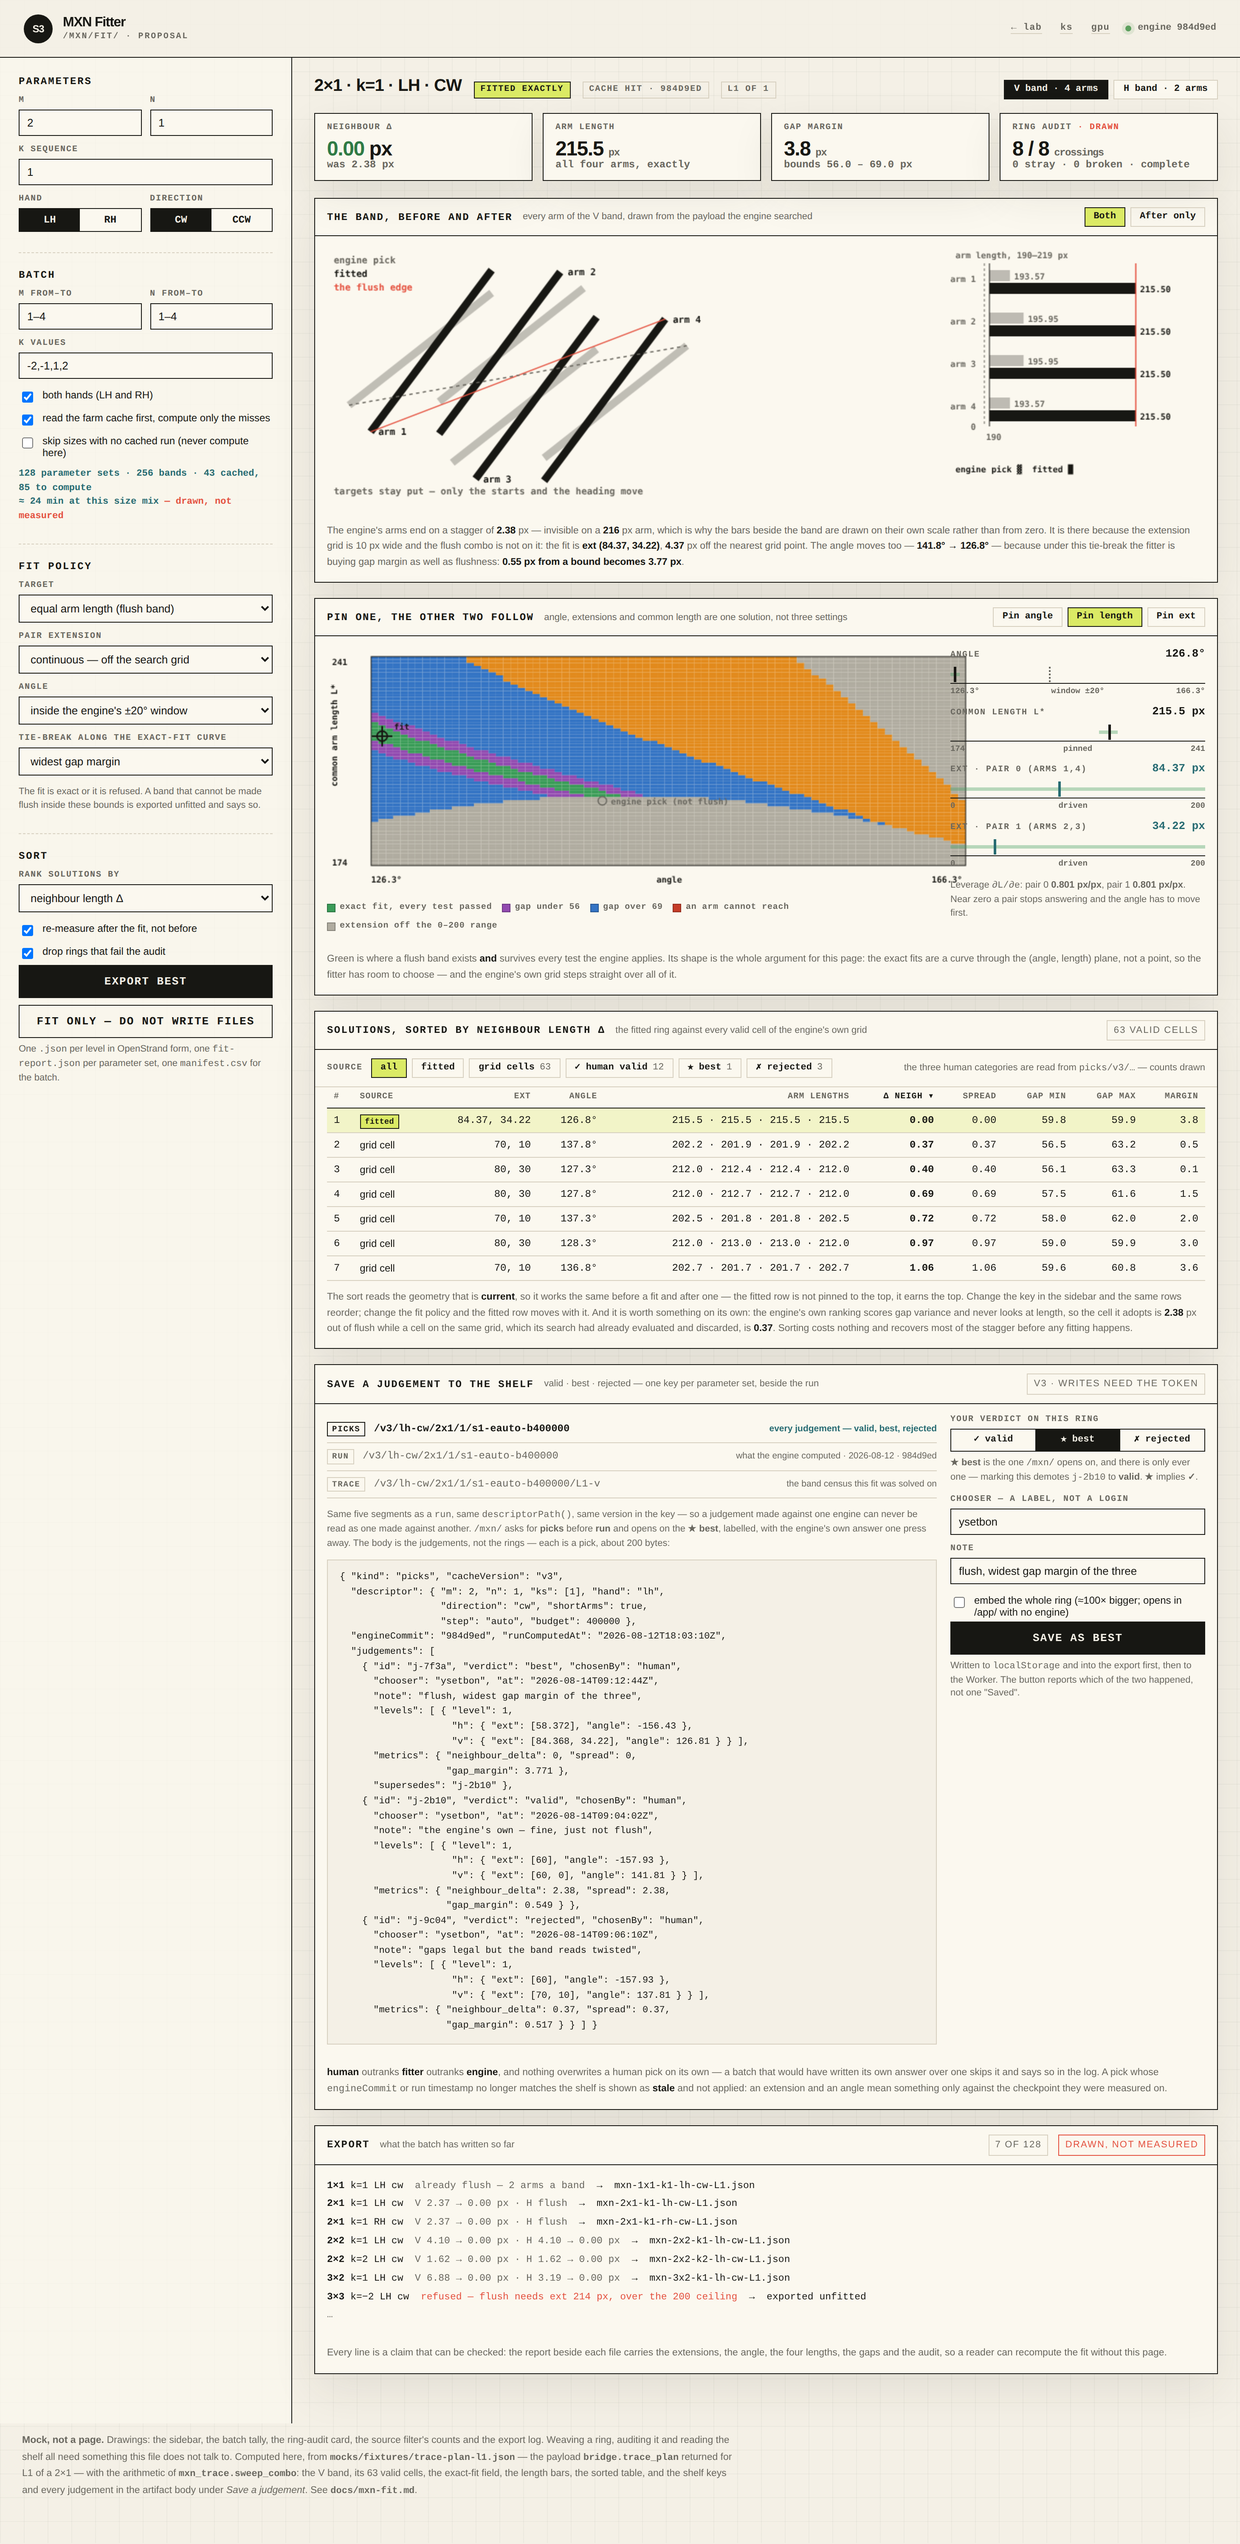
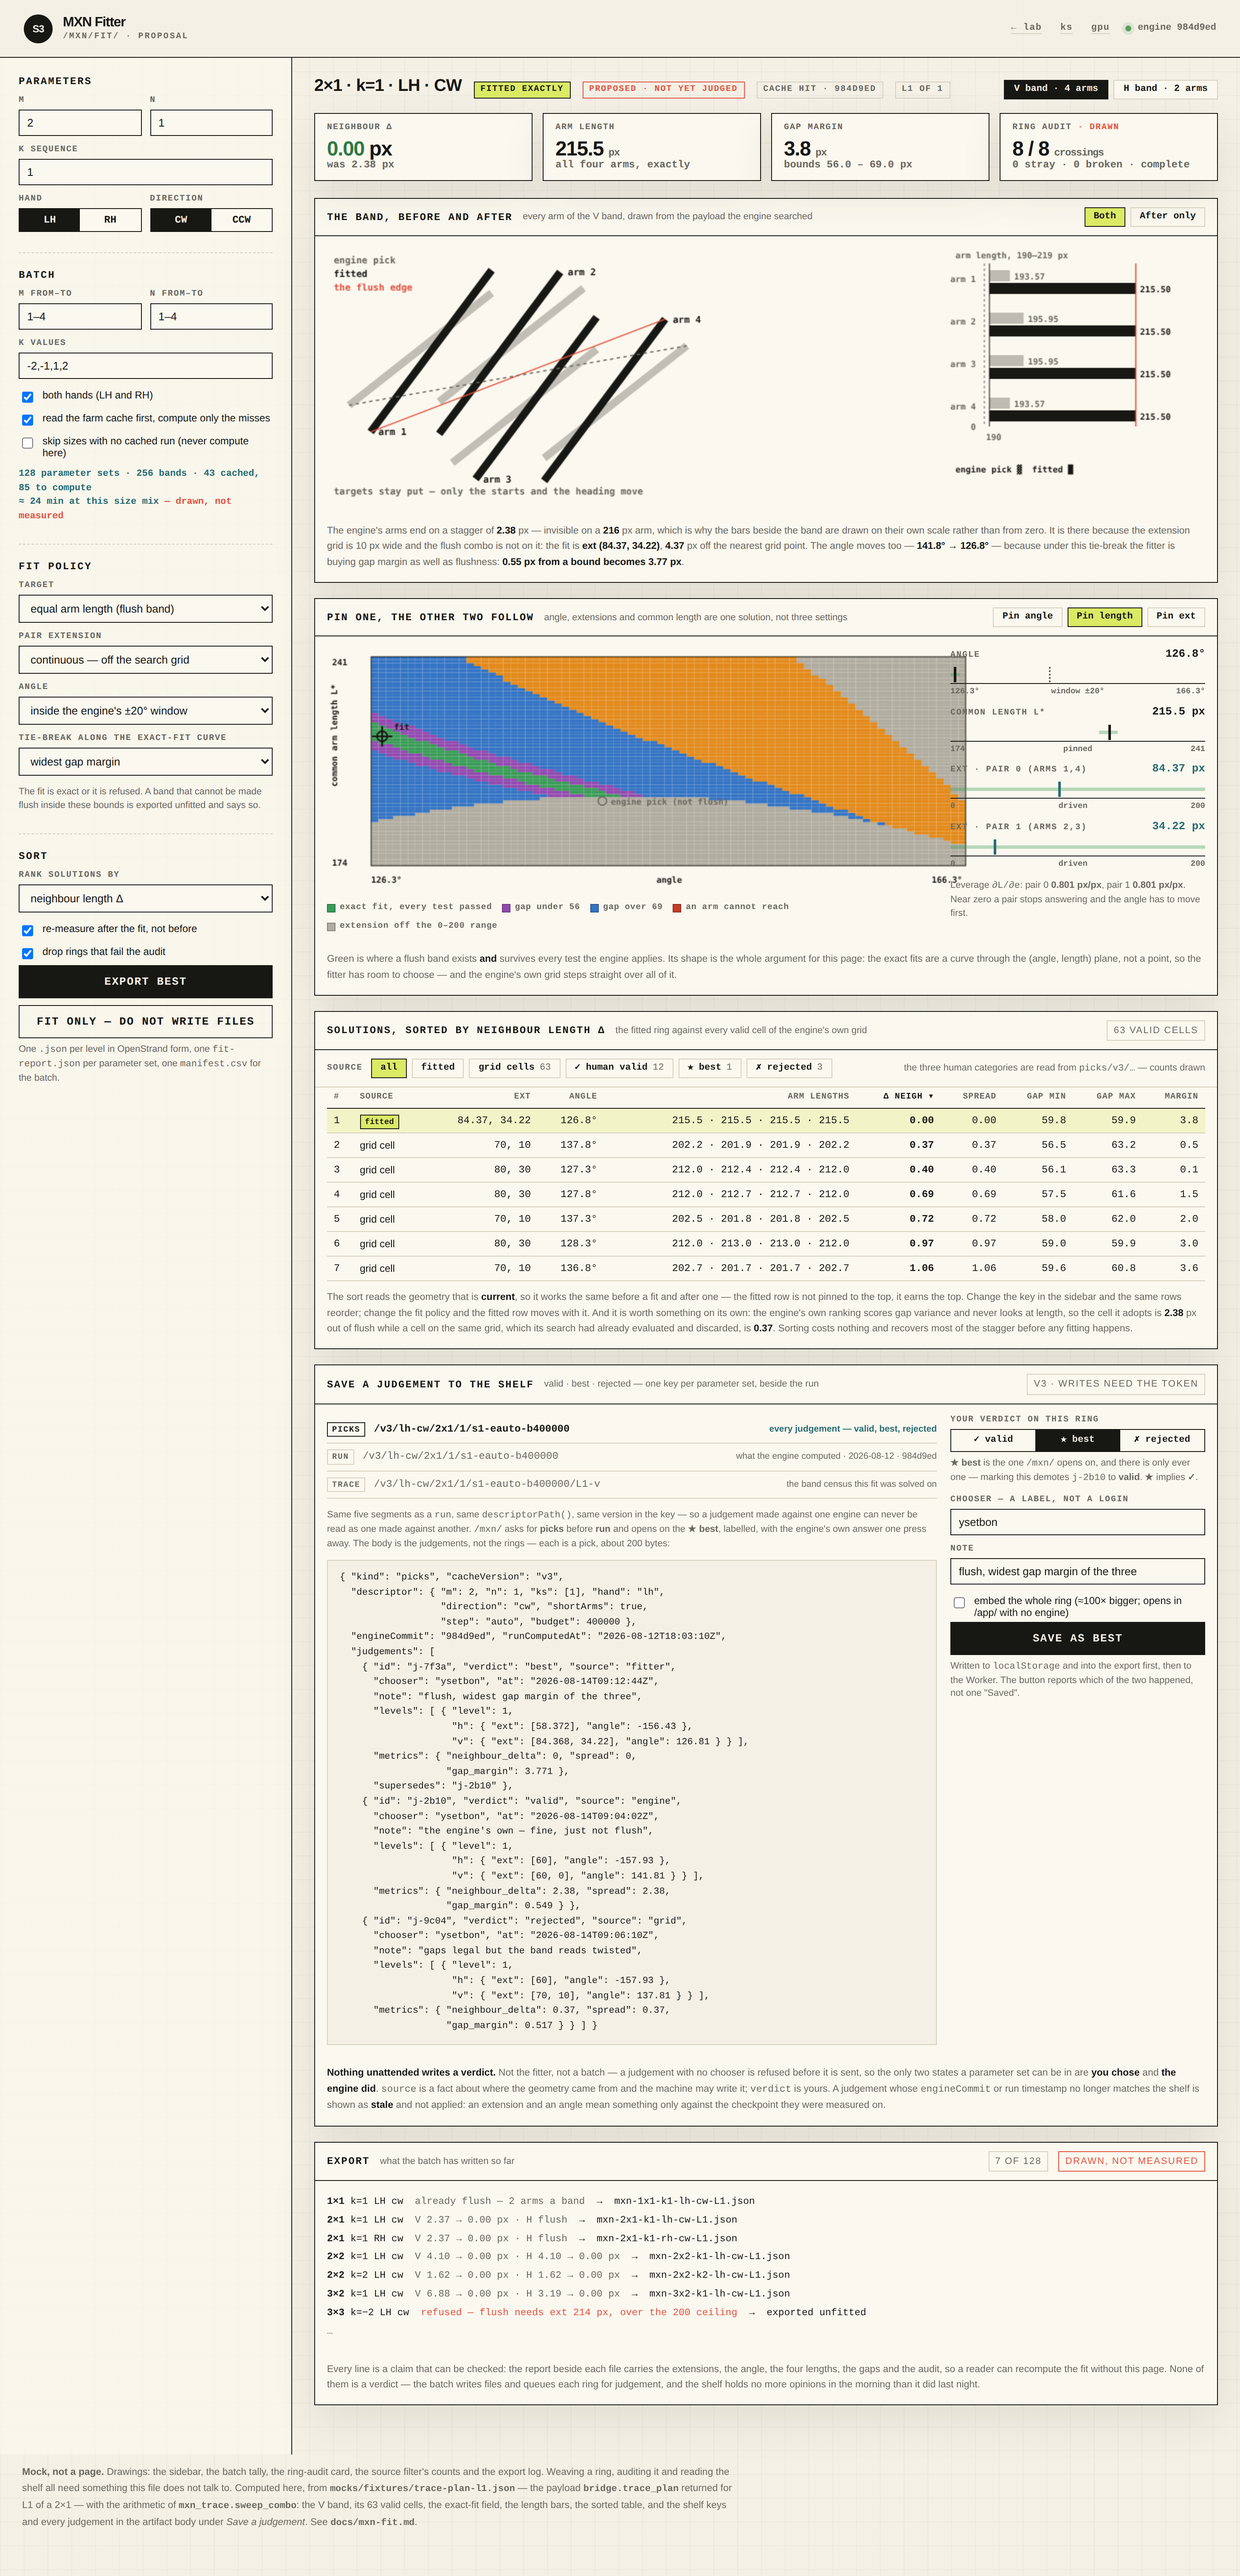
Verdicts are human-only: the machine proposes, you judge
Decided, so it stops being a policy and becomes a shape: nothing unattended
writes a verdict. Not the fitter, not a batch, not a later version of either.

The fitter tier is gone from the precedence -- there were three levels (human >
fitter > engine) and now there are two states, "you chose" and "the engine did".
A page opens on a best only if a person wrote one; otherwise the engine's own
pick stands, exactly as today, however good the fit's numbers look.

What that needed was separating two things "chosen by" had run together:

    source   where the geometry came from -- fitter | engine | grid | hand.
             A fact about the ring. The machine may write it.
    verdict  what you said about it -- valid | best | rejected.
             Yours. The write path has no other author to offer: a judgement
             with no chooser is refused by the client before it is sent.

So the fitter's output is a proposal, labelled that way on screen -- the run bar
carries "proposed, not yet judged" beside "fitted exactly" -- and the sidebar's
Export best produces a proposal too. A ring can be the fitter's best and never
become the best, which is the normal case until you say otherwise.

The cost is stated rather than hidden: a parameter set nobody has looked at
stays unjudged forever, and a batch that fits a hundred sizes overnight leaves
the shelf holding zero verdicts in the morning. So the batch's job changes from
[…]

Changed region(s): [[0.2493, 0.0312, 0.9661, 0.9366], [0.0, 0.0312, 0.2182, 0.4371], [0.1247, 0.0624, 0.2182, 0.1249]]

diff --git a/mocks/fit.html b/mocks/fit.html
@@ -276,6 +276,7 @@ td.num { font-family: monospace; }
     <div class="runbar">
       <h1>2×1 · k=1 · LH · CW</h1>
       <span class="chip ok">fitted exactly</span>
+      <span class="chip" style="border-color:var(--red);color:var(--red)">proposed · not yet judged</span>
       <span class="chip soft">cache hit · 984d9ed</span>
       <span class="chip soft">L1 of 1</span>
       <div class="tabs">
@@ -477,10 +478,12 @@ td.num { font-family: monospace; }
         </div>
       </div>
       <p class="note">
-        <em>human</em> outranks <em>fitter</em> outranks <em>engine</em>, and nothing overwrites a human pick on its
-        own — a batch that would have written its own answer over one skips it and says so in the log. A pick whose
-        <code>engineCommit</code> or run timestamp no longer matches the shelf is shown as <em>stale</em> and not
-        applied: an extension and an angle mean something only against the checkpoint they were measured on.
+        <em>Nothing unattended writes a verdict.</em> Not the fitter, not a batch — a judgement with no chooser is
+        refused before it is sent, so the only two states a parameter set can be in are <em>you chose</em> and
+        <em>the engine did</em>. <code>source</code> is a fact about where the geometry came from and the machine may
+        write it; <code>verdict</code> is yours. A judgement whose <code>engineCommit</code> or run timestamp no longer
+        matches the shelf is shown as <em>stale</em> and not applied: an extension and an angle mean something only
+        against the checkpoint they were measured on.
       </p>
     </div>
 
@@ -501,7 +504,9 @@ td.num { font-family: monospace; }
       </div>
       <p class="note">
         Every line is a claim that can be checked: the report beside each file carries the extensions, the angle, the
-        four lengths, the gaps and the audit, so a reader can recompute the fit without this page.
+        four lengths, the gaps and the audit, so a reader can recompute the fit without this page. None of them is a
+        verdict — the batch writes files and queues each ring for judgement, and the shelf holds no more opinions in
+        the morning than it did last night.
       </p>
     </div>
   </div>
@@ -719,8 +724,8 @@ document.getElementById("n-marg").textContent =
   const flushest = cells.reduce((a, c) => (c.dneigh < a.dneigh ? c : a), cells[0]);
 
   const arr = (v, d) => "[" + v.map(e => round(e, d)).join(", ") + "]";
-  const entry = (id, verdict, at, note, h, v, proj, gaps, tail) =>
-`    { "id": "${id}", "verdict": "${verdict}", "chosenBy": "human",
+  const entry = (id, verdict, source, at, note, h, v, proj, gaps, tail) =>
+`    { "id": "${id}", "verdict": "${verdict}", "source": "${source}",
       "chooser": "ysetbon", "at": "${at}",
       "note": "${note}",
       "levels": [ { "level": 1,
@@ -736,13 +741,13 @@ document.getElementById("n-marg").textContent =
                   "step": "auto", "budget": ${D.budget} },
   "engineCommit": "984d9ed", "runComputedAt": "2026-08-12T18:03:10Z",
   "judgements": [
-${entry("j-7f3a", "best", "2026-08-14T09:12:44Z",
+${entry("j-7f3a", "best", "fitter", "2026-08-14T09:12:44Z",
         "flush, widest gap margin of the three", hFit, fit, fit.proj, fit.gaps,
         ',\n      "supersedes": "j-2b10"')},
-${entry("j-2b10", "valid", "2026-08-14T09:04:02Z",
+${entry("j-2b10", "valid", "engine", "2026-08-14T09:04:02Z",
         "the engine's own — fine, just not flush", hPick, enginePick,
         enginePick.proj, enginePick.gaps, "")},
-${entry("j-9c04", "rejected", "2026-08-14T09:06:10Z",
+${entry("j-9c04", "rejected", "grid", "2026-08-14T09:06:10Z",
         "gaps legal but the band reads twisted", hPick, flushest,
         flushest.proj, flushest.gaps, "")} ] }`;
 })();

diff --git a/docs/mxn-fit.md b/docs/mxn-fit.md
@@ -176,8 +176,11 @@ and the queue walks all of them, reading the farm cache first
 manifest.csv                 one row per parameter set, with every metric below
 ```
 
-**And onto the shelf.** A file is yours alone; the same pick also goes back to
-the Worker so every page finds it — see
+**And onto the shelf — but only as work for you.** A batch writes files, and it
+posts each fitted ring to the `solutions` table with **no verdict**, so it turns
+up in the queue with everything else waiting to be looked at. It does not write
+a judgement, ever: what is valid and what is best is yours to say, and the batch
+exists to put the candidates in front of you rather than to answer for you. See
 [§ Saving a judgement](#4--saving-a-judgement-picksv3).
 
 **Without touching the page at all.** Every control is in the URL, so the export
@@ -399,21 +402,44 @@ this one.
 | `rejected` | any number | looked at, and no | the loaders, to stop offering it again |
 | *(absent)* | — | nobody has judged this ring | everything, as today |
 
+One word doing two jobs, and it is worth separating them: the sidebar's
+**Export best** produces the fitter's answer for a parameter set, and that is a
+*proposal*. `★ best` is a verdict, and only you can write one. A ring can be the
+fitter's best and never become the `best` — that is the normal case until you
+say otherwise.
+
 `rejected` earns its place: without it "not yet looked at" and "looked at and
 turned down" are the same state, and the valid category cannot be loaded
 *correctly* — every load would re-offer the rings you already threw out. That is
 the difference between a filter and a queue.
 
-Each judgement also carries who made it:
+### A verdict has one author, and it is a person
+
+**Nothing unattended ever writes a verdict.** Not the fitter, not a batch, not a
+future version of either. A verdict is what *you* said about a ring, and if a
+program could write one the word would mean nothing.
+
+So the two things that were tangled up in "chosen by" are separated, and only
+one of them is a judgement:
 
 ```
-chosenBy:  "human"   somebody pressed the button
-           "fitter"  a batch fitted it unattended and wrote its own answer
+source:   where the geometry came from — "fitter" | "engine" | "grid" | "hand"
+verdict:  what you said about it       — "valid" | "best" | "rejected"
+chooser:  who said it
 ```
 
-Only a human writes `valid` or `rejected`. A batch may write `best` with
-`chosenBy: "fitter"` — an unattended answer is better than none — but never over
-a human's, and the log says when it skipped one.
+`source` is a fact about the ring and the machine may write it. `verdict` is
+yours, and the write path has no other author to offer: a judgement with no
+`chooser` is rejected by the client before it is sent.
+
+What the fitter produces is therefore a **proposal**, not an answer. It is
+labelled that way on screen — a fitted ring shows *proposed*, never *best* —
+until you press something.
+
+**The cost, stated plainly:** a parameter set nobody has looked at stays
+unjudged forever. A batch can fit a hundred sizes overnight and the shelf will
+still hold zero verdicts in the morning. That is the point, but it means the
+batch's job is to *prepare* work rather than finish it — see below.
 
 ### The invariants
 
@@ -426,8 +452,9 @@ Enforced when the artifact is written, and re-checked when it is read:
 3. **`best` and `rejected` are exclusive.** Rejecting the current best clears
    the best; the page says so rather than silently leaving the parameter set
    pointing at a rejected ring.
-4. **A `human` judgement is never overwritten by a `fitter` one.** In either
-   direction of verdict.
+4. **Only a person writes a verdict.** The Worker takes a judgement with no
+   `chooser`, and the client refuses to send one. An unattended run has no way
+   to express an opinion, by construction rather than by policy.
 5. **Every judgement names the run it was made against.** `engineCommit` and
    `runComputedAt`; on a mismatch the entry is shown as *stale* and not applied.
 
@@ -446,7 +473,7 @@ geometry through the same `NX.apply_solution` path the fit itself used:
   "engineCommit": "984d9ed",
   "runComputedAt": "2026-08-12T18:03:10Z",
   "judgements": [
-    {"id": "j-7f3a", "verdict": "best", "chosenBy": "human",
+    {"id": "j-7f3a", "verdict": "best", "source": "fitter",
      "chooser": "ysetbon", "at": "2026-08-14T09:12:44Z",
      "note": "flush, widest gap margin of the three",
      "levels": [{"level": 1,
@@ -456,7 +483,7 @@ geometry through the same `NX.apply_solution` path the fit itself used:
      "audit": {"crossings": 8, "expected": 8, "stray": 0, "broken": 0},
      "supersedes": "j-2b10"},
 
-    {"id": "j-2b10", "verdict": "valid", "chosenBy": "human",
+    {"id": "j-2b10", "verdict": "valid", "source": "engine",
      "chooser": "ysetbon", "at": "2026-08-14T09:04:02Z",
      "note": "the engine's own — fine, just not flush",
      "levels": [{"level": 1,
@@ -464,7 +491,7 @@ geometry through the same `NX.apply_solution` path the fit itself used:
                  "v": {"ext": [60, 0], "angle": 141.81}}],
      "metrics": {"neighbour_delta": 2.38, "spread": 2.38, "gap_margin": 0.549}},
 
-    {"id": "j-9c04", "verdict": "rejected", "chosenBy": "human",
+    {"id": "j-9c04", "verdict": "rejected", "source": "grid",
      "chooser": "ysetbon", "at": "2026-08-14T09:06:10Z",
      "note": "gaps legal but the band reads twisted",
      "levels": [{"level": 1,
@@ -504,8 +531,9 @@ the `solutions` table's job. It gains one column:
 ```sql
 -- worker-api/migrations/0003_verdict.sql
 ALTER TABLE solutions ADD COLUMN verdict TEXT;         -- 'valid'|'best'|'rejected'|NULL
-ALTER TABLE solutions ADD COLUMN verdict_by TEXT;      -- 'human'|'fitter'
+ALTER TABLE solutions ADD COLUMN verdict_by TEXT;      -- who; NULL is impossible when verdict is not
 ALTER TABLE solutions ADD COLUMN verdict_at TEXT;
+ALTER TABLE solutions ADD COLUMN source TEXT;          -- 'fitter'|'engine'|'grid'|'hand'
 CREATE INDEX IF NOT EXISTS idx_solutions_verdict ON solutions (verdict, m, n, k, level);
 ```
 
@@ -535,10 +563,14 @@ authority and the row carries the same `id`.
 `/mxn/` and `/mxn/fit/` both ask for `picks/v3/…` before falling back to the
 `run`'s own choice — one extra request, cached like the rest.
 
-- a `best` opens the level, with a chip saying **human pick** (or **fitted**),
-  and the engine's own answer one press away — never hidden, because a page that
-  quietly shows something other than what the engine computed is a page that
-  cannot be trusted about anything;
+- a `best` opens the level, with a chip saying **human pick** — it can say
+  nothing else, since nothing else can write one — and the engine's own answer
+  one press away, never hidden, because a page that quietly shows something
+  other than what the engine computed is a page that cannot be trusted about
+  anything;
+- **no `best` means the engine's own pick stands**, exactly as today. There is
+  no middle tier: either a person chose, or the engine did. The fitter's own
+  answer is never adopted by a page on its own, however good its numbers look;
 - `valid` entries do not change what opens. They populate the category, and the
   count appears on the filter so you can see there is something to load;
 - `rejected` entries are not offered by any loader, and are shown only when the
@@ -716,6 +748,10 @@ does for the lab's widgets.
 
 Answer these and the rest is typing.
 
+*Decided already:* **you decide what is valid and what is best.** No unattended
+process writes a verdict — see
+[§ A verdict has one author](#a-verdict-has-one-author-and-it-is-a-person).
+
 1. **The name and the address.** `/mxn/fit/`, "the fitter"? It sits beside
    `/mxn/ks/` and `/mxn/gpu/` in the masthead and in `docs/links.md`.
 2. **Which is the default tie-break** along the exact-fit curve — widest gap
@@ -729,14 +765,10 @@ Answer these and the rest is typing.
    swept; 4×4 already refuses a trace, and 5×5 has never been run.
 6. **Should the fitter be allowed off the ±20° angle window?** Everything above
    stays inside it. Outside is more room and less precedent.
-7. **Does a batch get to write `best` at all?** As drawn it writes `chosenBy:
-   "fitter"` for every set it fits and never overwrites a human judgement. The
-   alternative is that only a human press ever writes one, and an unattended
-   sweep leaves the shelf alone.
-8. **One judgement set per parameter set, or one per level?** The key is the
+7. **One judgement set per parameter set, or one per level?** The key is the
    whole descriptor — ks and all — so `[1, 1, −1]` and `[1, 1]` are different
    shelves and a judgement about the first says nothing about the second.
-9. **Is `rejected` wanted, or only `valid` and `best`?** It is in because
+8. **Is `rejected` wanted, or only `valid` and `best`?** It is in because
    without it the valid category cannot be loaded correctly — every load
    re-offers the rings you already turned down. But it is a third button, and
    three buttons is more than two.
